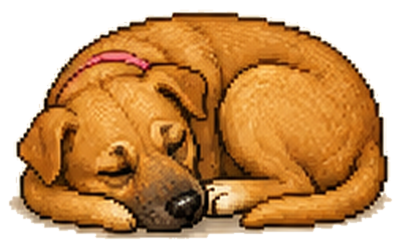
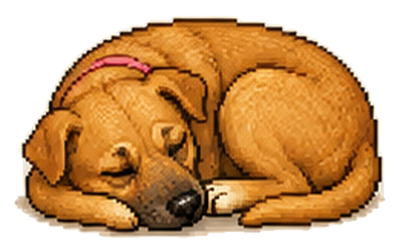
Corrige buracos residuais no fundo transparente das imagens (fechamento morfologico maior, testado contra fundo escuro real)

diff --git a/web/src/utils/versao.js b/web/src/utils/versao.js
@@ -1,4 +1,4 @@
 // Atualizo esse número toda vez que envio uma mudança —
 // serve pra você confirmar se o app realmente atualizou no celular.
-export const VERSAO = '1.11.2';
-export const VERSAO_DESCRICAO = 'Corrige remocao de fundo (preservando partes claras do desenho)';
+export const VERSAO = '1.11.3';
+export const VERSAO_DESCRICAO = 'Corrige buracos residuais nas imagens (fechamento morfologico maior)';
